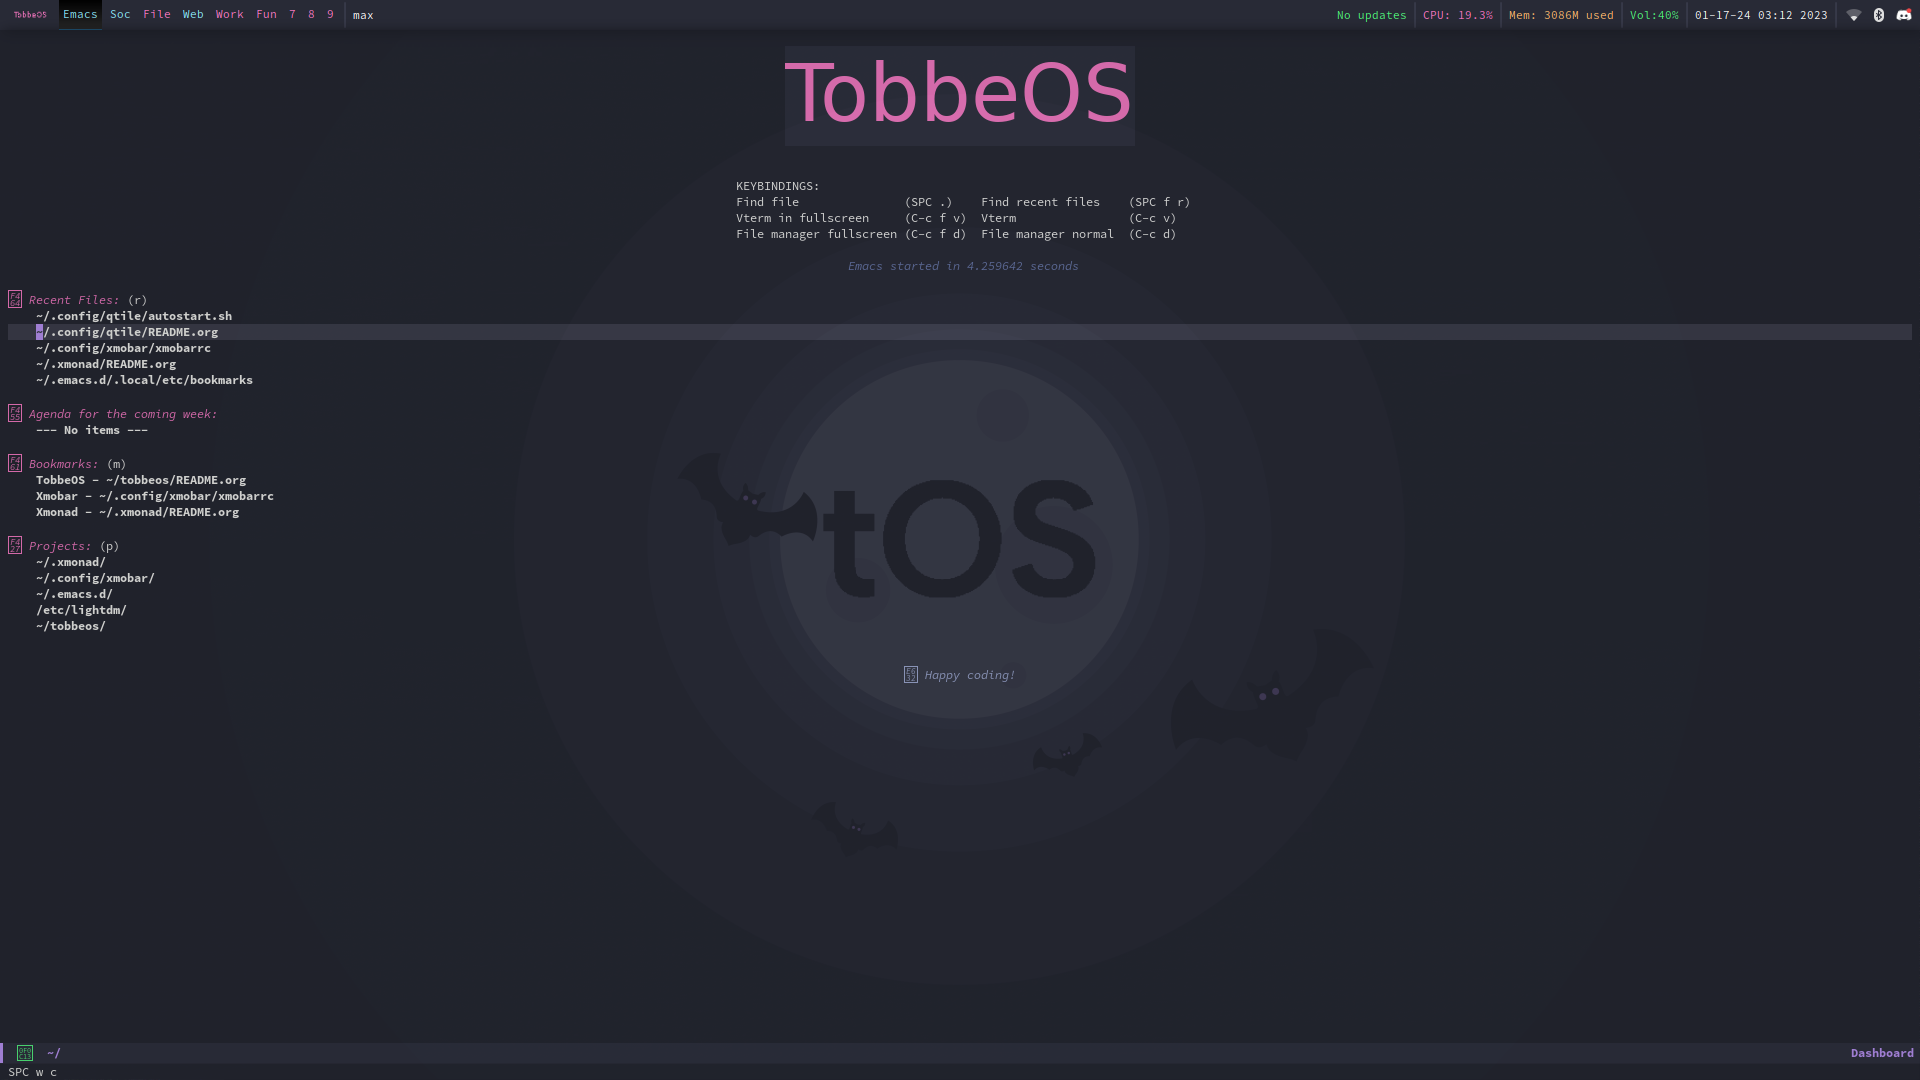
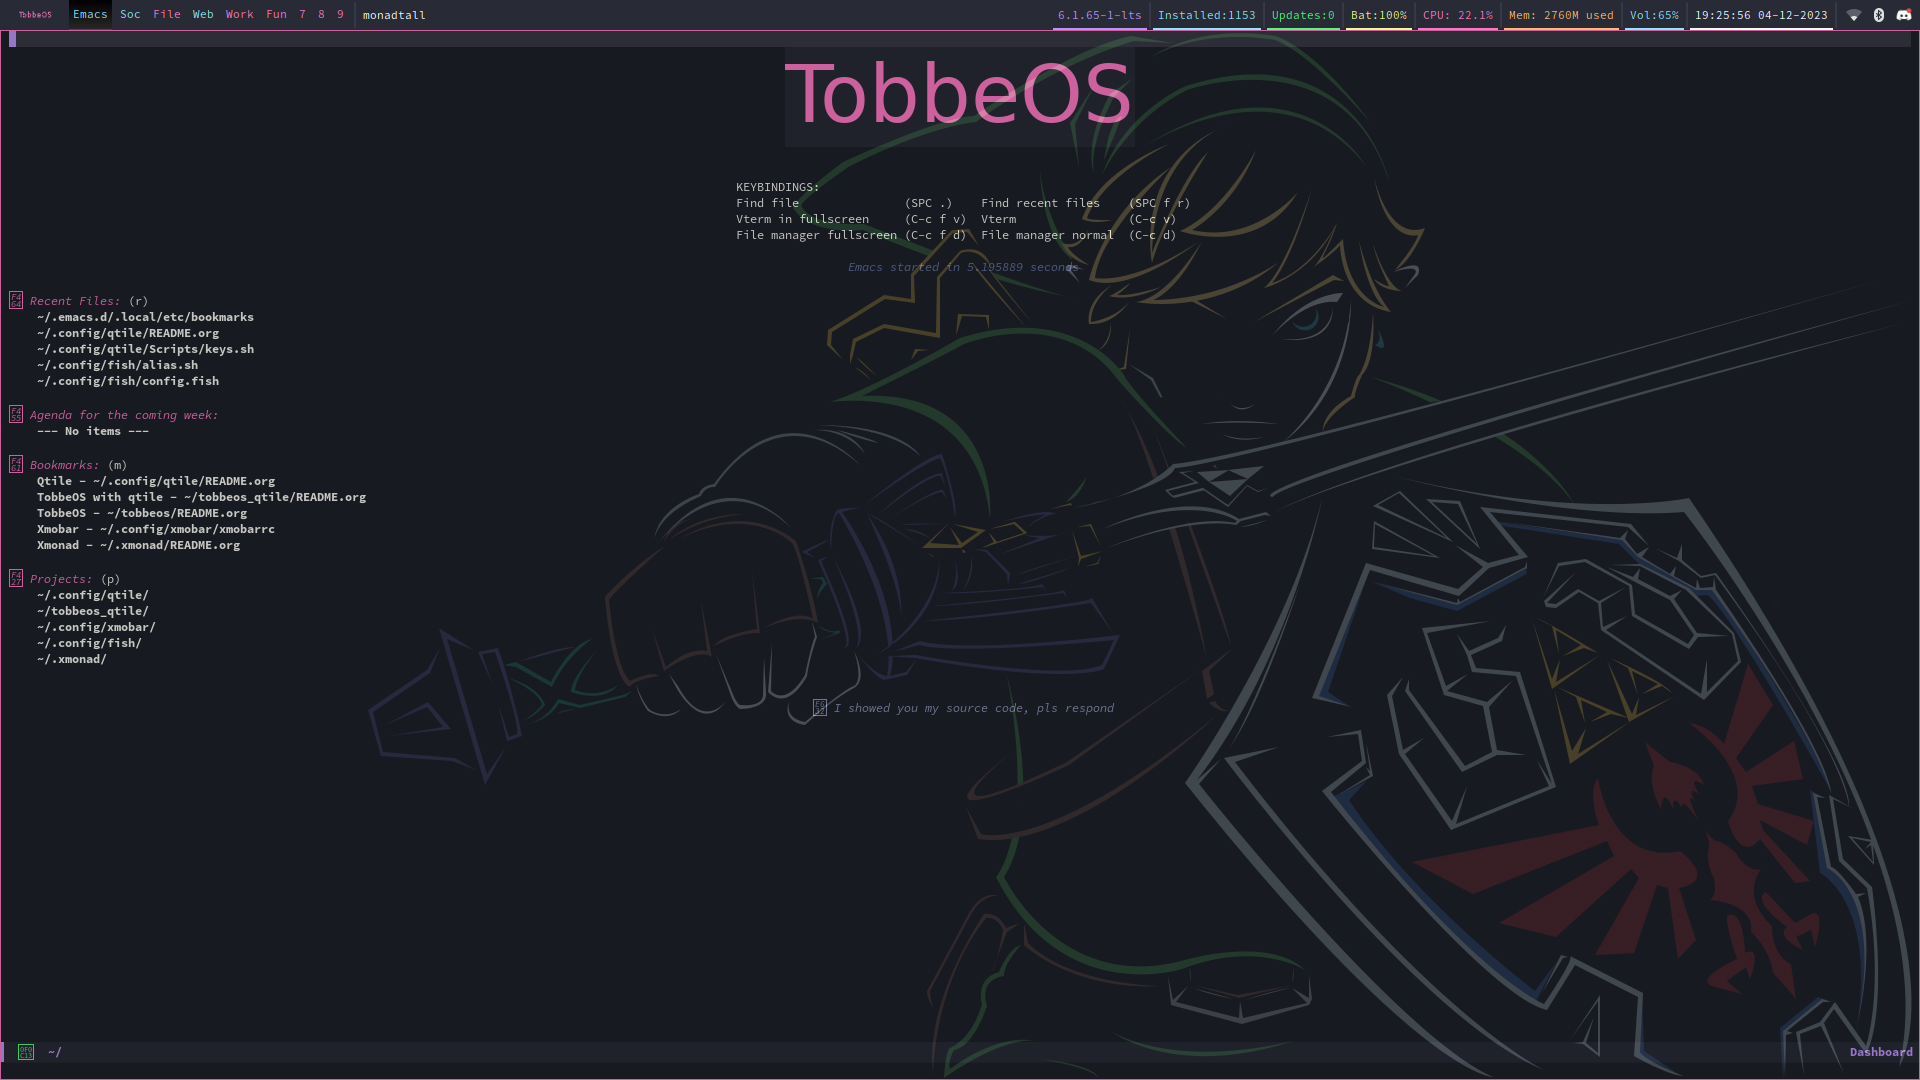
adding widgit

diff --git a/config.py b/config.py
@@ -6,11 +6,10 @@ from os.path import expanduser
 import re
 import socket
 import subprocess
-from libqtile import qtile
+from libqtile import qtile, widget, extension, bar, layout, hook
 import qtile_extras
 from qtile_extras import widget
 from qtile_extras.widget.decorations import BorderDecoration
-from libqtile import bar, layout, hook
 from libqtile.config import Click, Drag, Group, Key, Match, Screen, ScratchPad, DropDown, Rule
 from libqtile.lazy import lazy
 from libqtile.utils import guess_terminal
@@ -219,6 +218,18 @@ extension_defaults = widget_defaults.copy()
 
 window_name = widget.WindowName()
 
+def show_cpu():
+    qtile.cmd_spawn('kitty -e htop')
+
+def package():
+    home = os.path.expanduser('~')
+    qtile.cmd_spawn(home + '/.config/qtile/Scripts/AntallPakker.sh', shell=True)
+
+def updates():
+    home = os.path.expanduser('~')
+    qtile.cmd_spawn(home + '/.config/qtile/Scripts/checkupdate.sh', shell=True)
+
+
 main_bar = bar.Bar(
     [
         widget.Sep(
@@ -248,12 +259,31 @@ main_bar = bar.Bar(
             font='Source Code Pro'),
        widget.Spacer(lenght = 8),
        widget.GenPollCommand(
+            cmd = 'uname -r',
+            shell = True,
+            foreground = '#bd93f9',
+            font='Source Code Pro',
+            update_interval = 5,
+            decorations = [
+                BorderDecoration(
+                    colour = '#bd93f9',
+                    border_width = [0, 0, 2, 0],
+                )
+            ],
+       ),
+       widget.Sep(
+            background = "#282a36",
+            foreground = "#44475a",
+            linewidth = 1,
+            size_percent = 85),
+       widget.GenPollCommand(
             fmt = 'Installed:{}',
             cmd = '~/.config/qtile/Scripts/Packagecount.sh',
             shell = True,
             foreground = '#8be9fd',
             font='Source Code Pro',
             update_interval = 5,
+            mouse_callbacks = {'Button1': package},
             decorations = [
                 BorderDecoration(
                     colour = '#8be9fd',
@@ -273,6 +303,7 @@ main_bar = bar.Bar(
             foreground = '#50fa7b',
             font='Source Code Pro',
             update_interval = 5,
+            mouse_callbacks = {'Button1': updates},
             decorations = [
                 BorderDecoration(
                     colour = '#50fa7b',
@@ -307,6 +338,7 @@ main_bar = bar.Bar(
             format = 'CPU: {load_percent}%',
             foreground = "#ff76c6",
             font='Source Code Pro',
+            mouse_callbacks = {'Button1': show_cpu},
             decorations = [
                 BorderDecoration(
                     colour = '#ff76c6',
@@ -324,6 +356,7 @@ main_bar = bar.Bar(
             fmt = 'Mem:{} used',
             foreground = '#ffb86c',
             font='Source Code Pro',
+            mouse_callbacks = {'Button1': show_cpu},
             decorations = [
                 BorderDecoration(
                     colour = '#ffb86c',
